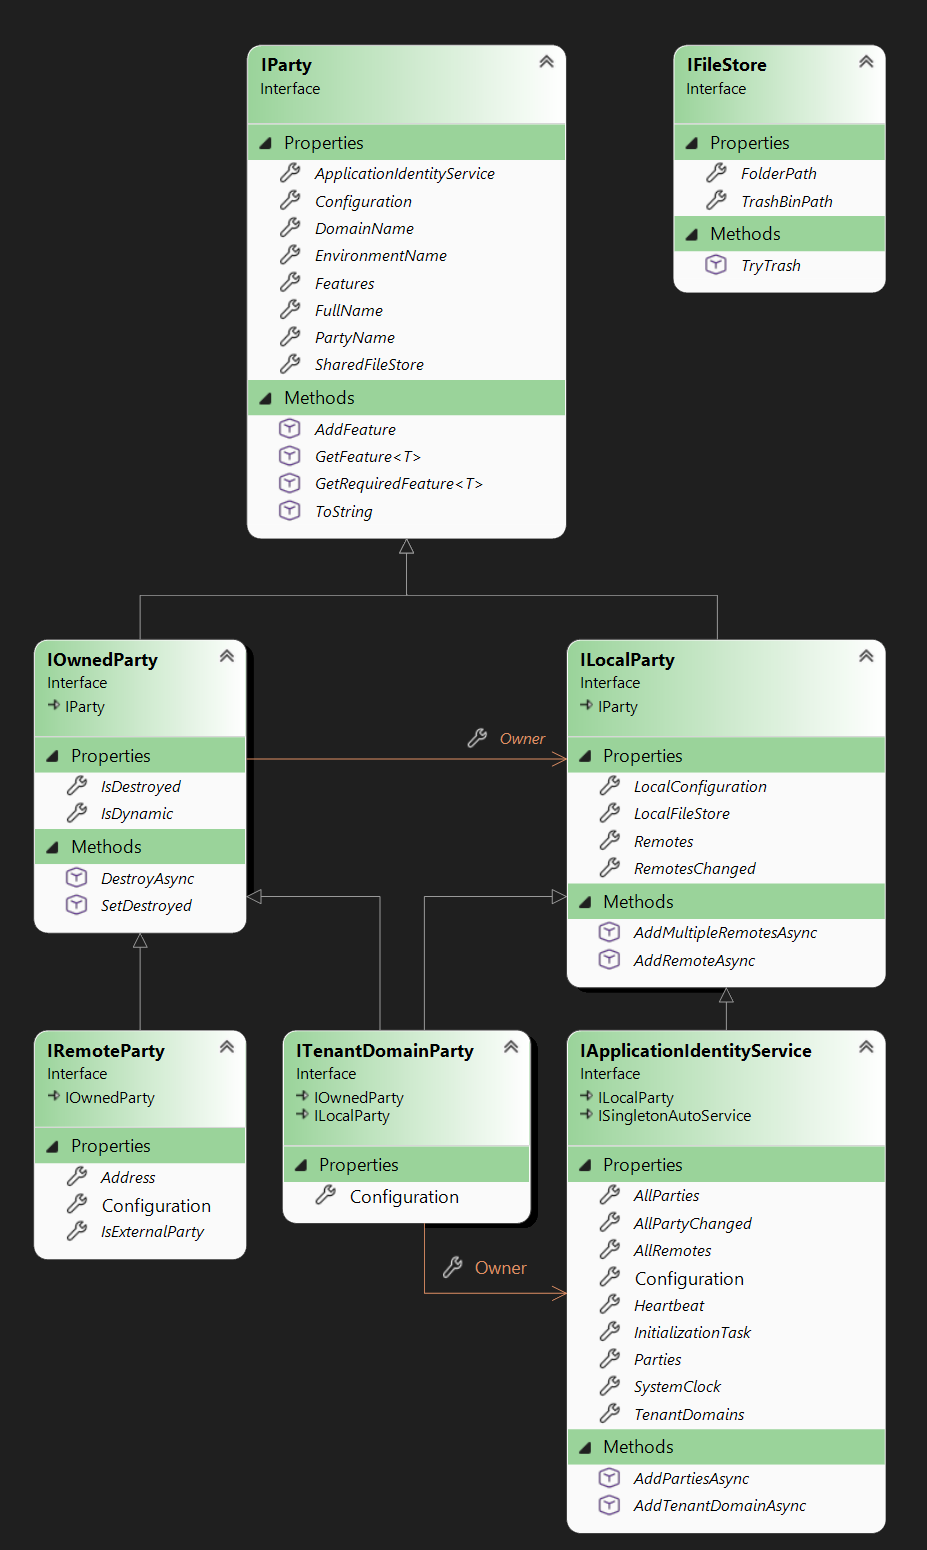
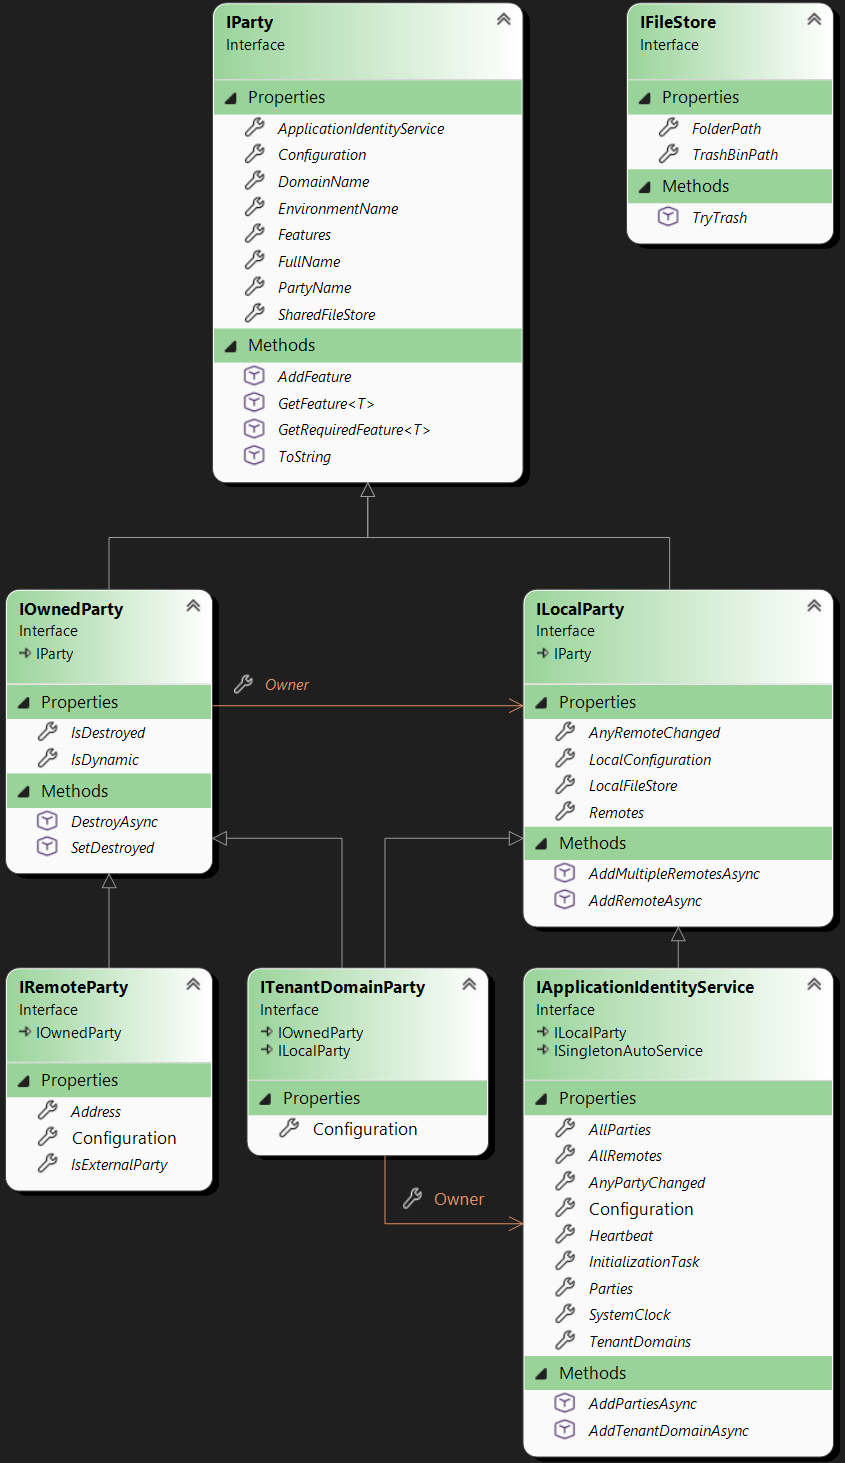
Renaming events.
BREAKING CHANGE: AllPartyChanged -> AnyPartyChanged
and RemotesChanged -> AnyRemoteChanged.

Changed region(s): [[0.0, 0.3691, 1.0, 1.0], [0.2462, 0.0, 0.6462, 0.3691], [0.7077, 0.0, 1.0, 0.2153]]

diff --git a/CK.AppIdentity.Abstractions/ILocalParty.cs b/CK.AppIdentity.Abstractions/ILocalParty.cs
@@ -16,10 +16,11 @@ public interface ILocalParty : IParty
     /// Raised whenever a new party appears or disappears in this <see cref="Remotes"/>.
     /// <para>
     /// By subscribing to this event on the root <see cref="IApplicationIdentityService"/>, one can track any structural
-    /// change of the whole identity system.
+    /// change of the whole identity system except new or destroyed <see cref="ITenantDomainParty"/>: use
+    /// <see cref="IApplicationIdentityService.AnyPartyChanged"/> to track tenant domains.
     /// </para>
     /// </summary>
-    PerfectEvent<IRemoteParty> RemotesChanged { get; }
+    PerfectEvent<IRemoteParty> AnyRemoteChanged { get; }
 
     /// <summary>
     /// Gets the remote parties.

diff --git a/CK.AppIdentity/ApplicationIdentityService.cs b/CK.AppIdentity/ApplicationIdentityService.cs
@@ -64,7 +64,7 @@ public sealed partial class ApplicationIdentityService : LocalParty, IApplicatio
     public new ApplicationIdentityServiceConfiguration Configuration => Unsafe.As<ApplicationIdentityServiceConfiguration>( _configuration );
 
     /// <inheritdoc />
-    public PerfectEvent<IOwnedParty> AllPartyChanged => _allPartyChanged.PerfectEvent;
+    public PerfectEvent<IOwnedParty> AnyPartyChanged => _allPartyChanged.PerfectEvent;
 
     /// <inheritdoc />
     public IReadOnlyCollection<ITenantDomainParty> TenantDomains => _domains;

diff --git a/CK.AppIdentity/Impl/LocalParty.cs b/CK.AppIdentity/Impl/LocalParty.cs
@@ -45,7 +45,7 @@ public abstract class LocalParty : ApplicationIdentityParty, ILocalParty
     }
 
     /// <inheritdoc />
-    public PerfectEvent<IRemoteParty> RemotesChanged => _remotesChanged.PerfectEvent;
+    public PerfectEvent<IRemoteParty> AnyRemoteChanged => _remotesChanged.PerfectEvent;
 
     /// <inheritdoc />
     public IReadOnlyCollection<IRemoteParty> Remotes => _remotes;

diff --git a/CK.AppIdentity.Abstractions/IApplicationIdentityService.cs b/CK.AppIdentity.Abstractions/IApplicationIdentityService.cs
@@ -25,7 +25,7 @@ public interface IApplicationIdentityService : ILocalParty, ISingletonAutoServic
     /// change of the whole identity system.
     /// </para>
     /// </summary>
-    PerfectEvent<IOwnedParty> AllPartyChanged { get; }
+    PerfectEvent<IOwnedParty> AnyPartyChanged { get; }
 
     /// <summary>
     /// Gets the tenant domains that this application hosts.

diff --git a/Tests/CK.AppIdentity.Tests/DynamicRemoteTests.cs b/Tests/CK.AppIdentity.Tests/DynamicRemoteTests.cs
@@ -31,7 +31,7 @@ public class DynamicRemoteTests
         var s = app.Services.GetRequiredService<ApplicationIdentityService>();
 
         var events = new List<string>();
-        s.AllPartyChanged.Sync += ( m, r ) =>
+        s.AnyPartyChanged.Sync += ( m, r ) =>
         {
             bool appear = !r.IsDestroyed;
             string msg;

diff --git a/CK.AppIdentity.Abstractions/IOwnedParty.cs b/CK.AppIdentity.Abstractions/IOwnedParty.cs
@@ -26,7 +26,7 @@ public interface IOwnedParty : IParty
     bool IsDynamic { get; }
 
     /// <summary>
-    /// Gets whether this remote has been removed from the root <see cref="IApplicationIdentityService"/>.
+    /// Gets whether this remote has been destroyed.
     /// </summary>
     bool IsDestroyed { get; }
 
